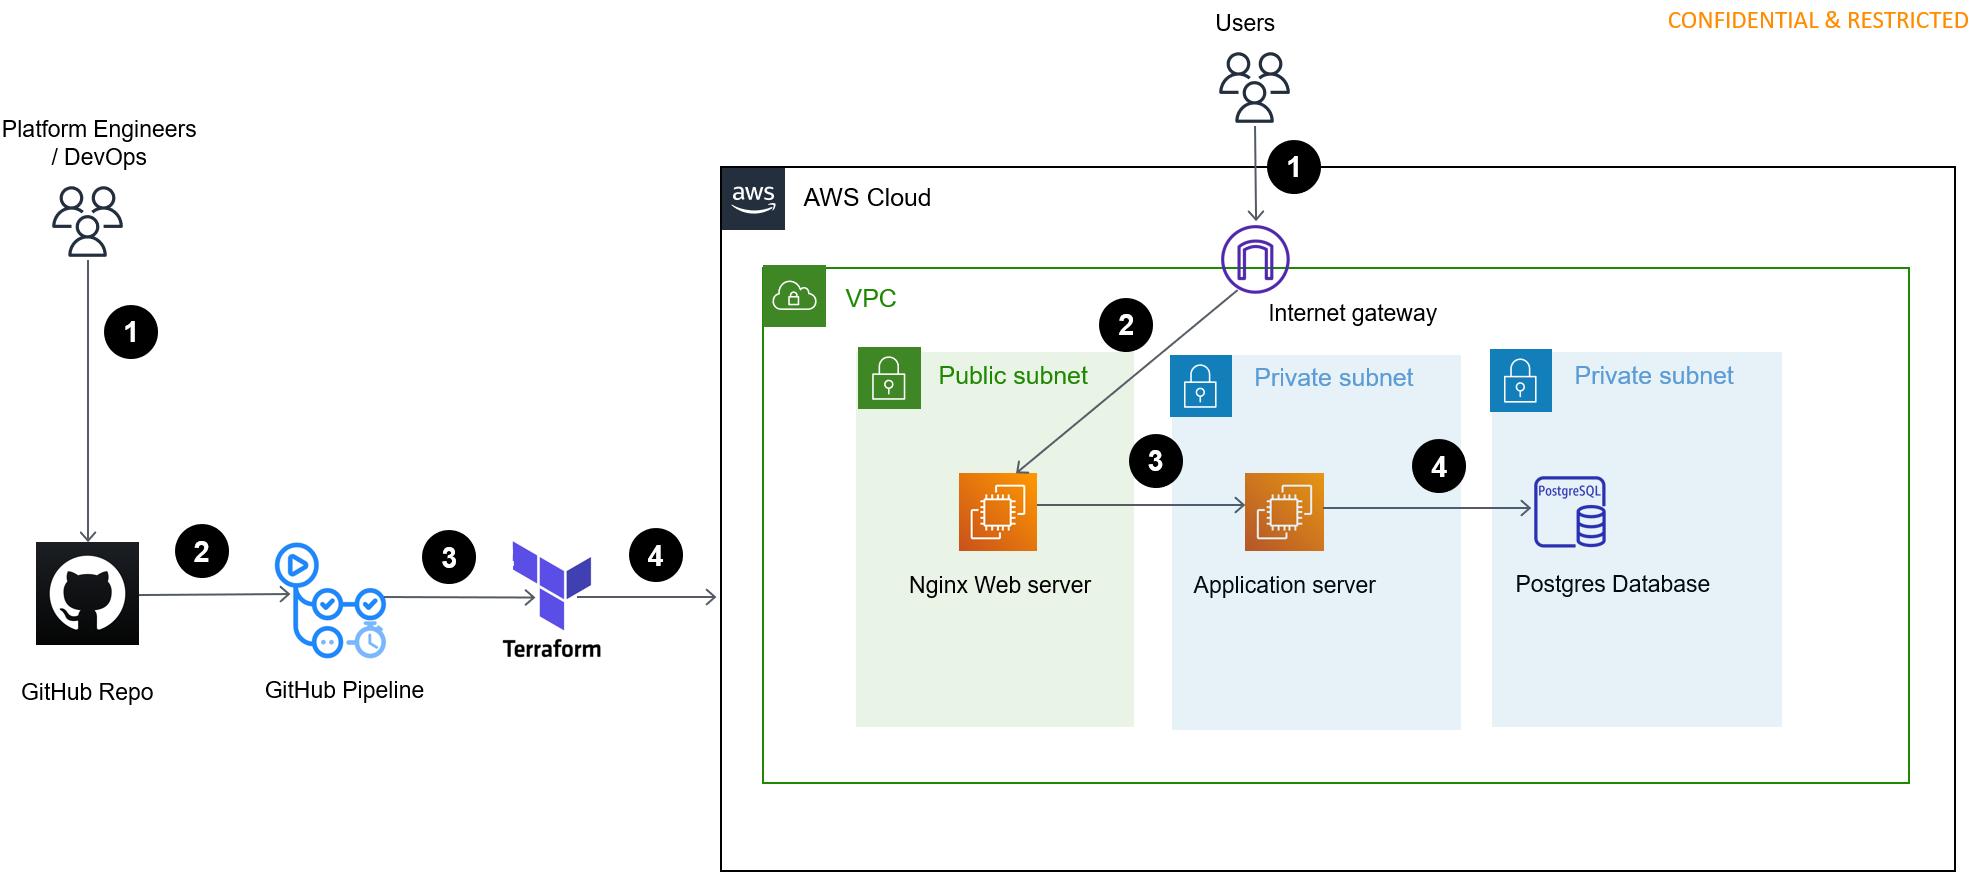
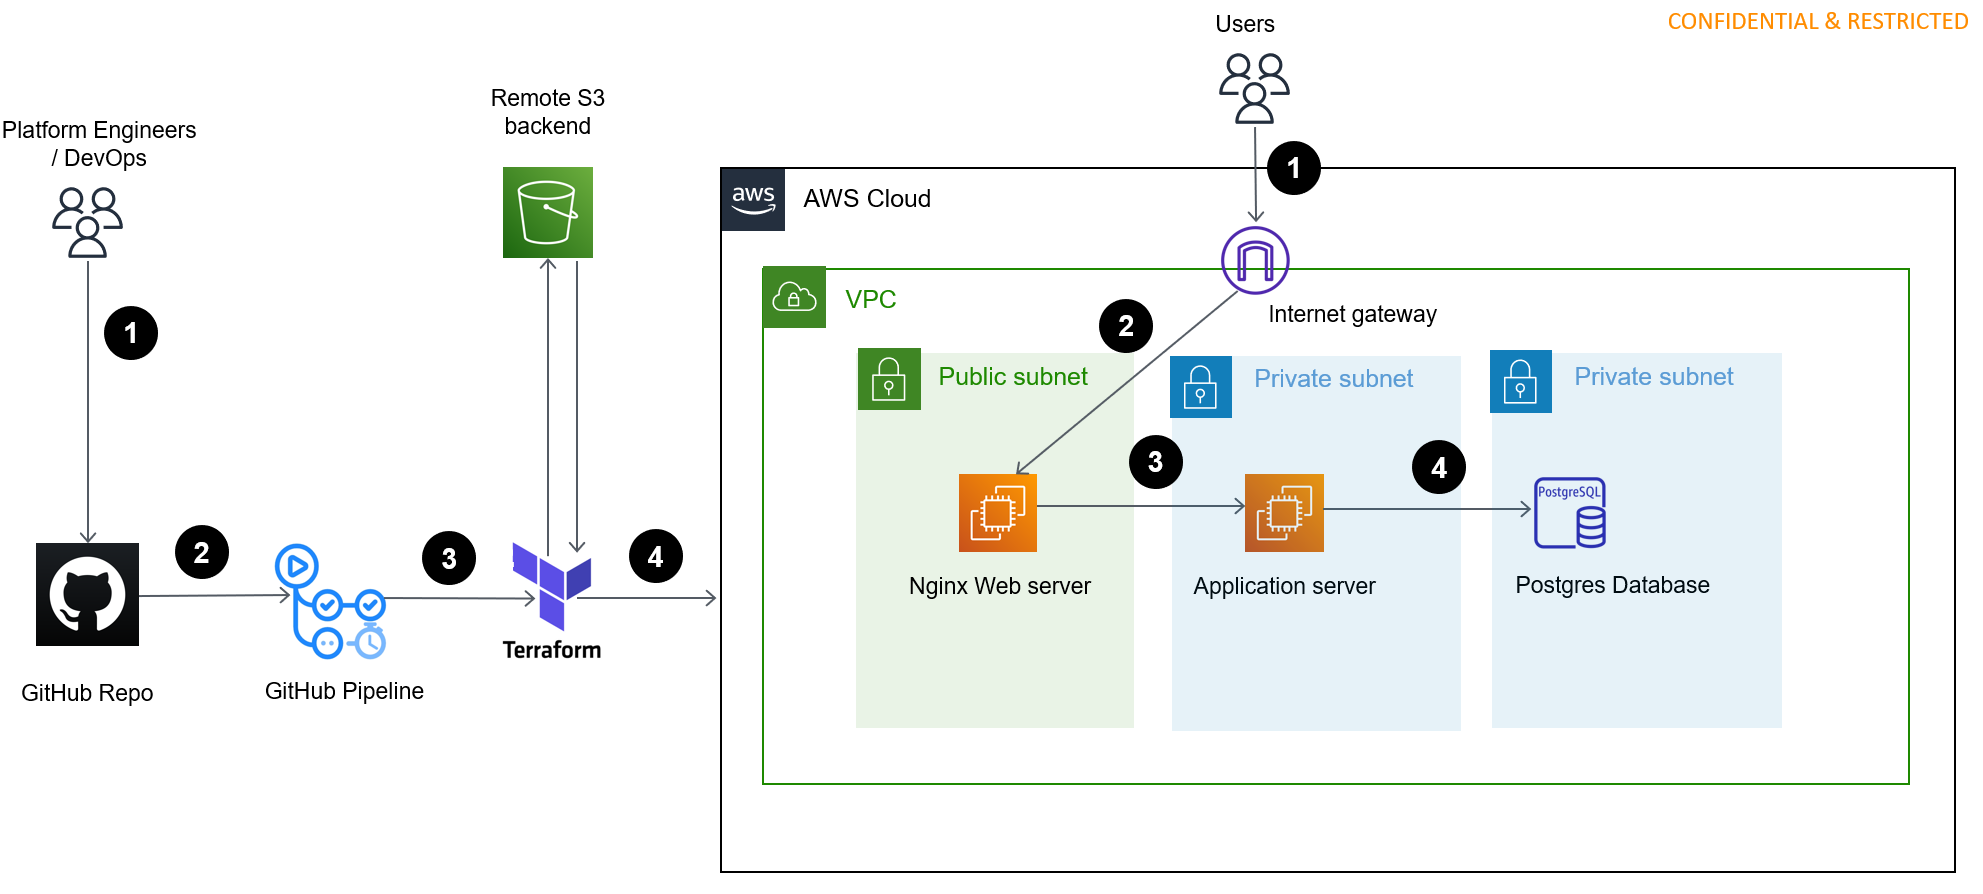
Updating readme.md

diff --git a/readme.md b/readme.md
@@ -1,1 +1,32 @@
 ![alt text](./image.png)
+
+
+## User request flow
+ 1. Users sends a request to  nginx server  which comes first at internet gateway at our vpc.
+ 2. From internet gateway ,request is passed to  nginx server . Nginx server  act as a reverse proxy for the application server.
+ 3. Nginx server routes the request to java application deployed on application server .
+ 4. Application server fetch/update the data from postgres database,fulfills user request and return a response back to user.
+
+ ## Infrastructure deployment flow
+1. Platform engineers/Devops push commits to modify the infrastructure to github repo.
+2. As soon as commit is pushed to main branch, it will automatically start a github actions pipeline.
+3. github actions deployement workflow  installs terraform cli and starts a terraform deployment.
+4. Terraform deployment includes init , plan and apply stages which successfully deploy new infra into AWS.
+
+## Description of components in Architecture Diagram
+1. Vpc - A private VPC which contains all our services
+2. Internet gateway- It provides internet access to/from VPC.
+3. nginx server- EC2 instance with nginx installed.It is deployed in public subnet and can accessible from internet.
+4. application server - EC2 instance with apache tomcat server installed. It is deployed in private subnet and  accessible only through nginx server in public subnet. 
+5. Postrges Database- RDS instance with Postgres engine.It is deployed in private subnet and only accessible by application server in private subnet
+6. Security groups - Security groups are attached to  all instances to block/allow traffic across different subnets.
+7. Github action - Github action is used to automate infrastructure deployement using terraform
+8. Terraform - terraform is used to add/delete/modify infrastructure in AWS as per requirements.
+9. S3 bucket - S3 bucket is used as remote backend to store terraform state files securely.
+
+## Description of Files
+1. main.tf - It contains remote backend and providers configuration.
+2. vpc.tf  - It contains configuration for AWS resources such as vpc,subnets,routes and security groups
+3. ec2.tf  - It contains config for deploying nginx server , application server and postgres database.
+4. variables.tf - It contains variables to be used by different terraform files.
+5. .github/workflows/deploy.yaml - It contains configuration for our github actions pipeline.
